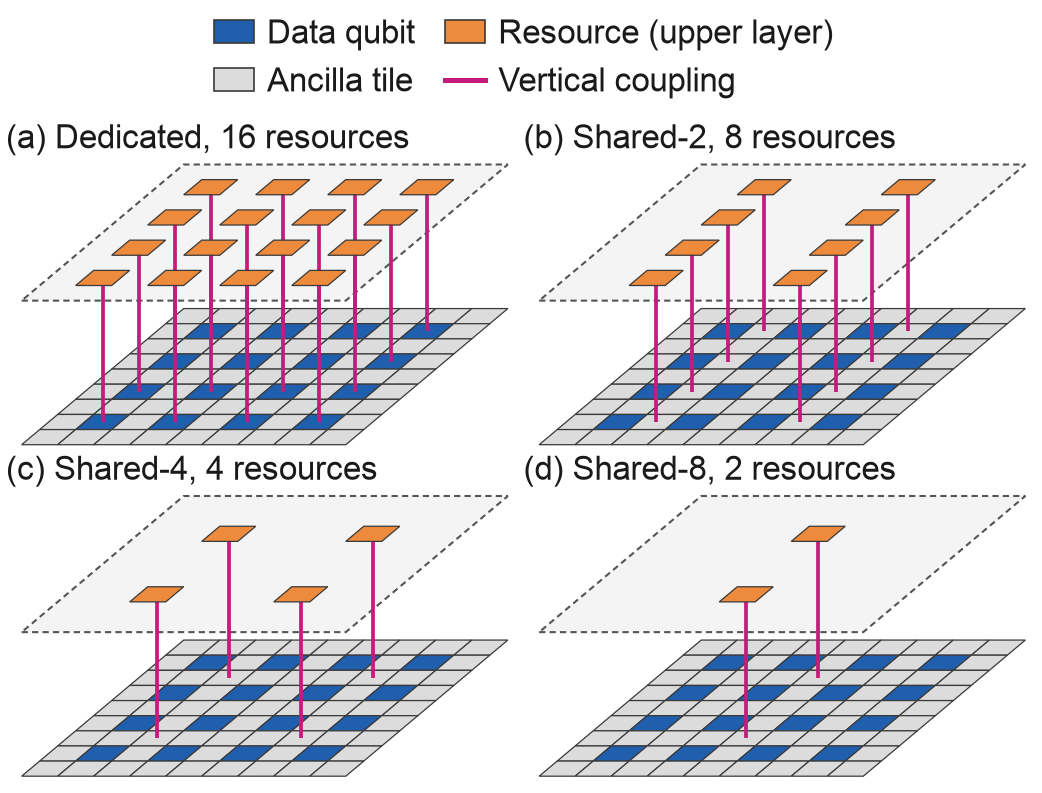
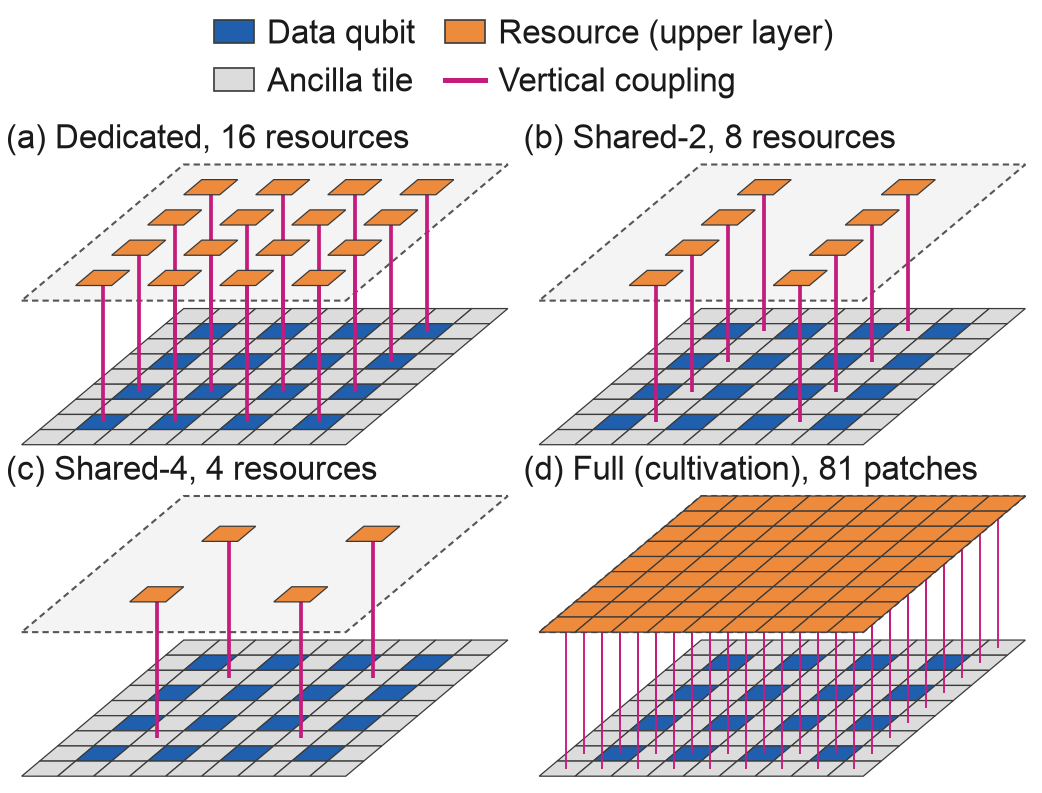
upper_layers: panel (d) is the Full cultivation layout; caption notes factory output tiles

Changed region(s): [[0.5221, 0.575, 0.9827, 0.9382]]

diff --git a/scripts/revision/draw_schematics.py b/scripts/revision/draw_schematics.py
@@ -499,18 +499,22 @@ def lower_first(path, n=4):
 
 def upper_layers(path, n=16):
     """HBMS's upper-layer configurations for N = 16 (the simulator's layouts), 2 x 2, in the
-    style of lower_first: Dedicated, Shared-2, Shared-4 and Shared-8. The upper layer holds
+    style of lower_first: Dedicated, Shared-2, Shared-4 and Full (a cultivation patch on every
+    upper tile). The upper layer holds
     only the resources; each has one vertical coupling to the tile below it (Lower-First)."""
     panels = [("D3-k1", "Dedicated"), ("D3-s2", "Shared-2"), ("D3-s4", "Shared-4"),
-              ("D3-s8", "Shared-8")]
+              ("full", "Full (cultivation)")]
     lift = 4.0
     fig = plt.figure(figsize=(COL, 2.6))
     pw, ph, top = 0.5, 0.425, 0.85  # panel width and height (figure fractions), top edge
     for k, (spec, title) in enumerate(panels):
-        arch = build_arch(parse_design(spec, d=13), n)
+        arch = build_arch(parse_design("D3-k1" if spec == "full" else spec, d=13), n)
         arch = arch[0] if isinstance(arch, tuple) else arch
         w, h = arch["width"], arch["height"]
         data, sources = set(arch["alg_qubits"]), sorted(arch["magic_states"])
+        if spec == "full":  # mati's D3-full: a patch on every upper tile
+            sources = list(range(w * h))
+        hatch = CULT_HATCH if spec == "full" else None
         col, row = k % 2, k // 2
         ax = fig.add_axes((col * pw, top - (row + 1) * ph, pw, ph - 0.045))
 
@@ -527,13 +531,15 @@ def upper_layers(path, n=16):
         for s_ in sources:
             x, y = xy(s_)
             (a_, b_), (_, c_) = oblique(x + .5, y + .5, 0), oblique(x + .5, y + .5, lift)
-            ax.plot([a_, a_], [b_, c_], color=LINK, lw=0.9, zorder=2.6, solid_capstyle="butt")
+            ax.plot([a_, a_], [b_, c_], color=LINK, lw=0.45 if hatch else 0.9, zorder=2.6,
+                    solid_capstyle="butt")
             tile(ax, x, y, lift, SOURCE, lw=0.3)
         ax.set_xlim(-0.3, w + SLANT * h + 0.3)
         ax.set_ylim(-0.3, DEPTH * h + lift + 0.15)
         ax.set_aspect("equal")
         ax.axis("off")
-        fig.text(col * pw, top - row * ph, f"({'abcd'[k]}) {title}, {len(sources)} resources",
+        fig.text(col * pw, top - row * ph,
+                 f"({'abcd'[k]}) {title}, {len(sources)} " + ("patches" if hatch else "resources"),
                  ha="left", va="top", fontsize=8)
     handles = [Patch(facecolor=DATA, edgecolor=EDGE, lw=0.4, label="Data qubit"),
                Patch(facecolor=ROUTE, edgecolor=EDGE, lw=0.4, label="Ancilla tile"),
@@ -573,10 +579,12 @@ CAPTIONS = {
     "upper_layers": (
         "The HBMS upper-layer configurations for N = 16 logical data qubits, drawn from the "
         "simulator's layouts: (a) Dedicated, one magic-state resource above each data qubit; "
-        "(b)-(d) Shared-2, -4 and -8, one resource per 2, 4 or 8 data qubits, each above an "
-        "ancilla tile of the data layer. The upper layer holds only the resources, and each "
-        "resource has one vertical coupling to the tile below it. Shared-16 follows the same "
-        "pattern with one resource."),
+        "(b), (c) Shared-2 and -4, one resource per 2 or 4 data qubits, each above an ancilla "
+        "tile of the data layer; (d) Full, a cultivation patch above every tile of the data "
+        "layer. The upper layer holds only the resources, and each resource has one vertical "
+        "coupling to the tile below it. For factories, the resource drawn is the factory's "
+        "output tile; its distillation block sits on further layers above (not drawn). "
+        "Shared-8 and Shared-16 follow the pattern of (b) and (c) with 2 and 1 resources."),
     "cross_layer_merge": (
         "Lattice-surgery merge that injects a T state from the upper layer (d = 3). (a) The "
         "merged patch: data patch D, gap column G prepared in |+>, and T-state patch M; the "

diff --git a/figures/revision/captions.md b/figures/revision/captions.md
@@ -2,7 +2,7 @@
 
 **lower_first.pdf.** Lower-First routing in a Shared-2 configuration of a Square Sparse layout with four logical data qubits (the simulator's layout): (a) both layers, (b) the data layer from above. The upper layer holds only the two magic-state resources: M1 above the ancilla tile between q1 and q2, and M2 between q3 and q4, each with one vertical coupling to the tile below it. A T gate on q2 routes over free ancilla tiles of the data layer (the T path), starting next to q2's Z boundary, to the tile below M1, and merges up through that tile's vertical coupling.
 
-**upper_layers.pdf.** The HBMS upper-layer configurations for N = 16 logical data qubits, drawn from the simulator's layouts: (a) Dedicated, one magic-state resource above each data qubit; (b)-(d) Shared-2, -4 and -8, one resource per 2, 4 or 8 data qubits, each above an ancilla tile of the data layer. The upper layer holds only the resources, and each resource has one vertical coupling to the tile below it. Shared-16 follows the same pattern with one resource.
+**upper_layers.pdf.** The HBMS upper-layer configurations for N = 16 logical data qubits, drawn from the simulator's layouts: (a) Dedicated, one magic-state resource above each data qubit; (b), (c) Shared-2 and -4, one resource per 2 or 4 data qubits, each above an ancilla tile of the data layer; (d) Full, a cultivation patch above every tile of the data layer. The upper layer holds only the resources, and each resource has one vertical coupling to the tile below it. For factories, the resource drawn is the factory's output tile; its distillation block sits on further layers above (not drawn). Shared-8 and Shared-16 follow the pattern of (b) and (c) with 2 and 1 resources.
 
 **cross_layer_merge.pdf.** Lattice-surgery merge that injects a T state from the upper layer (d = 3). (a) The merged patch: data patch D, gap column G prepared in |+>, and T-state patch M; the Z checks that touch G are new during the merge and their product is Z_D Z_M. (b) The same checks folded at the seam: D on the lower layer, G and M on the upper layer with M directly above D. Only the checks outlined in magenta involve both layers. (c) The CNOT order of a cross-layer Z check and X check, measured by an ancilla on the lower layer; magenta CNOTs use a vertical coupling.
 
